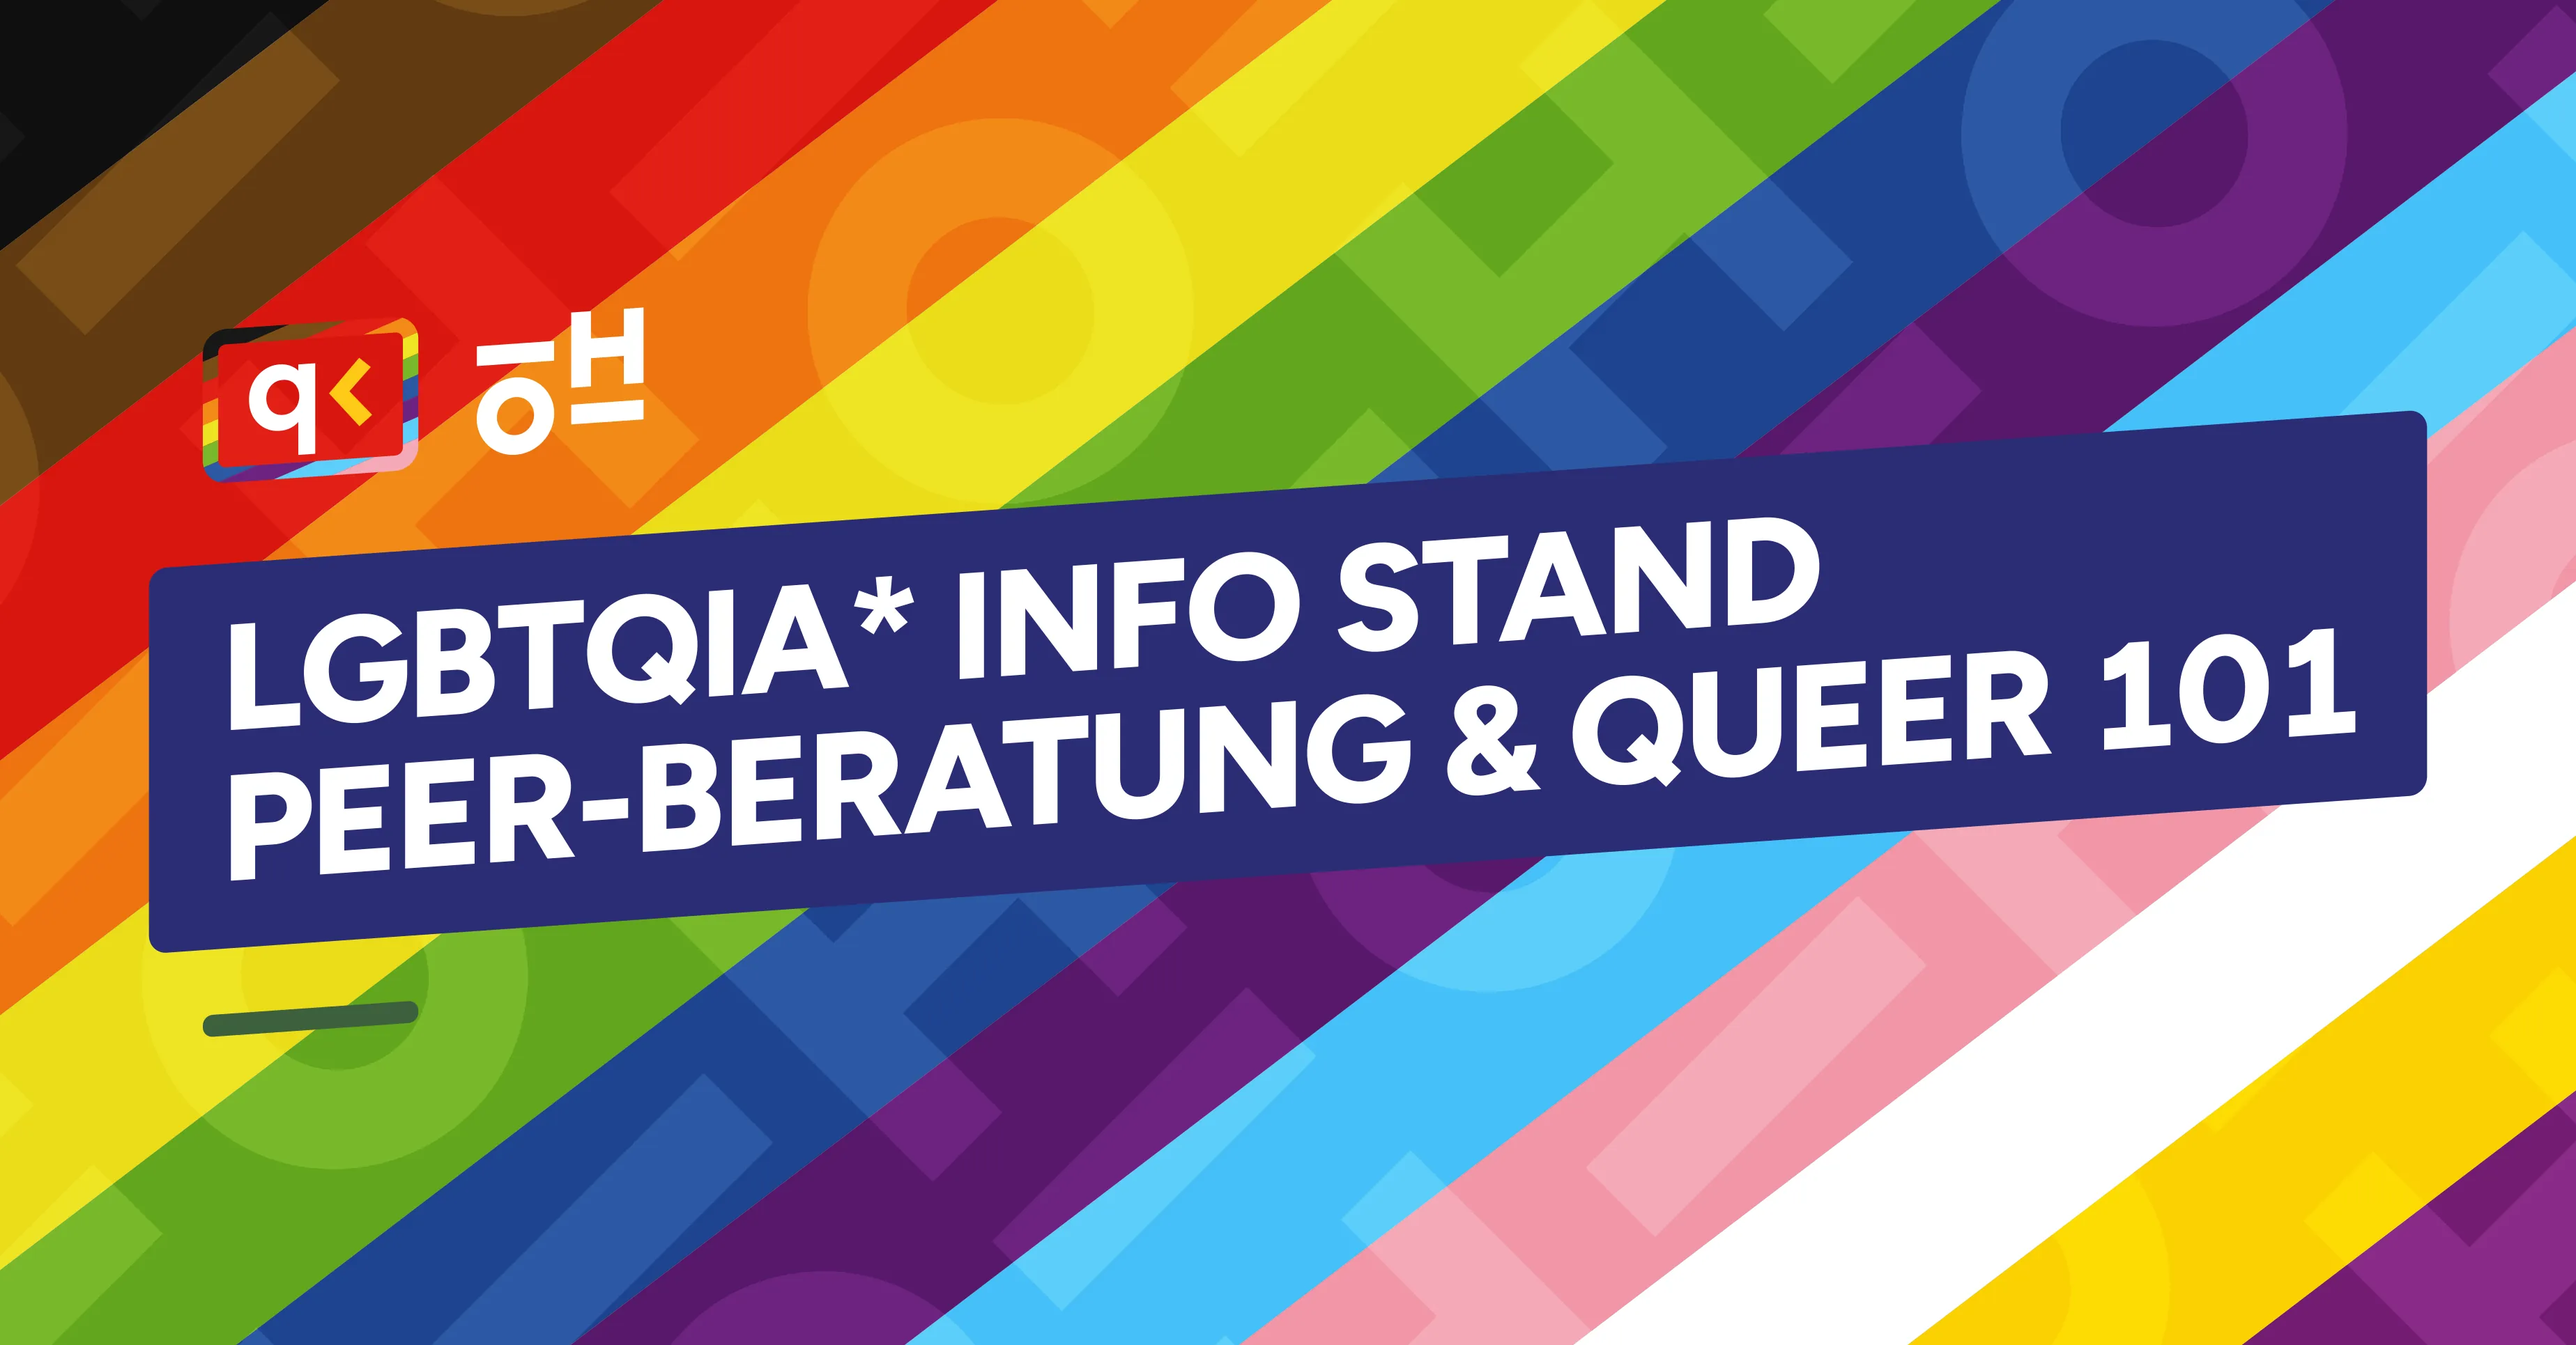
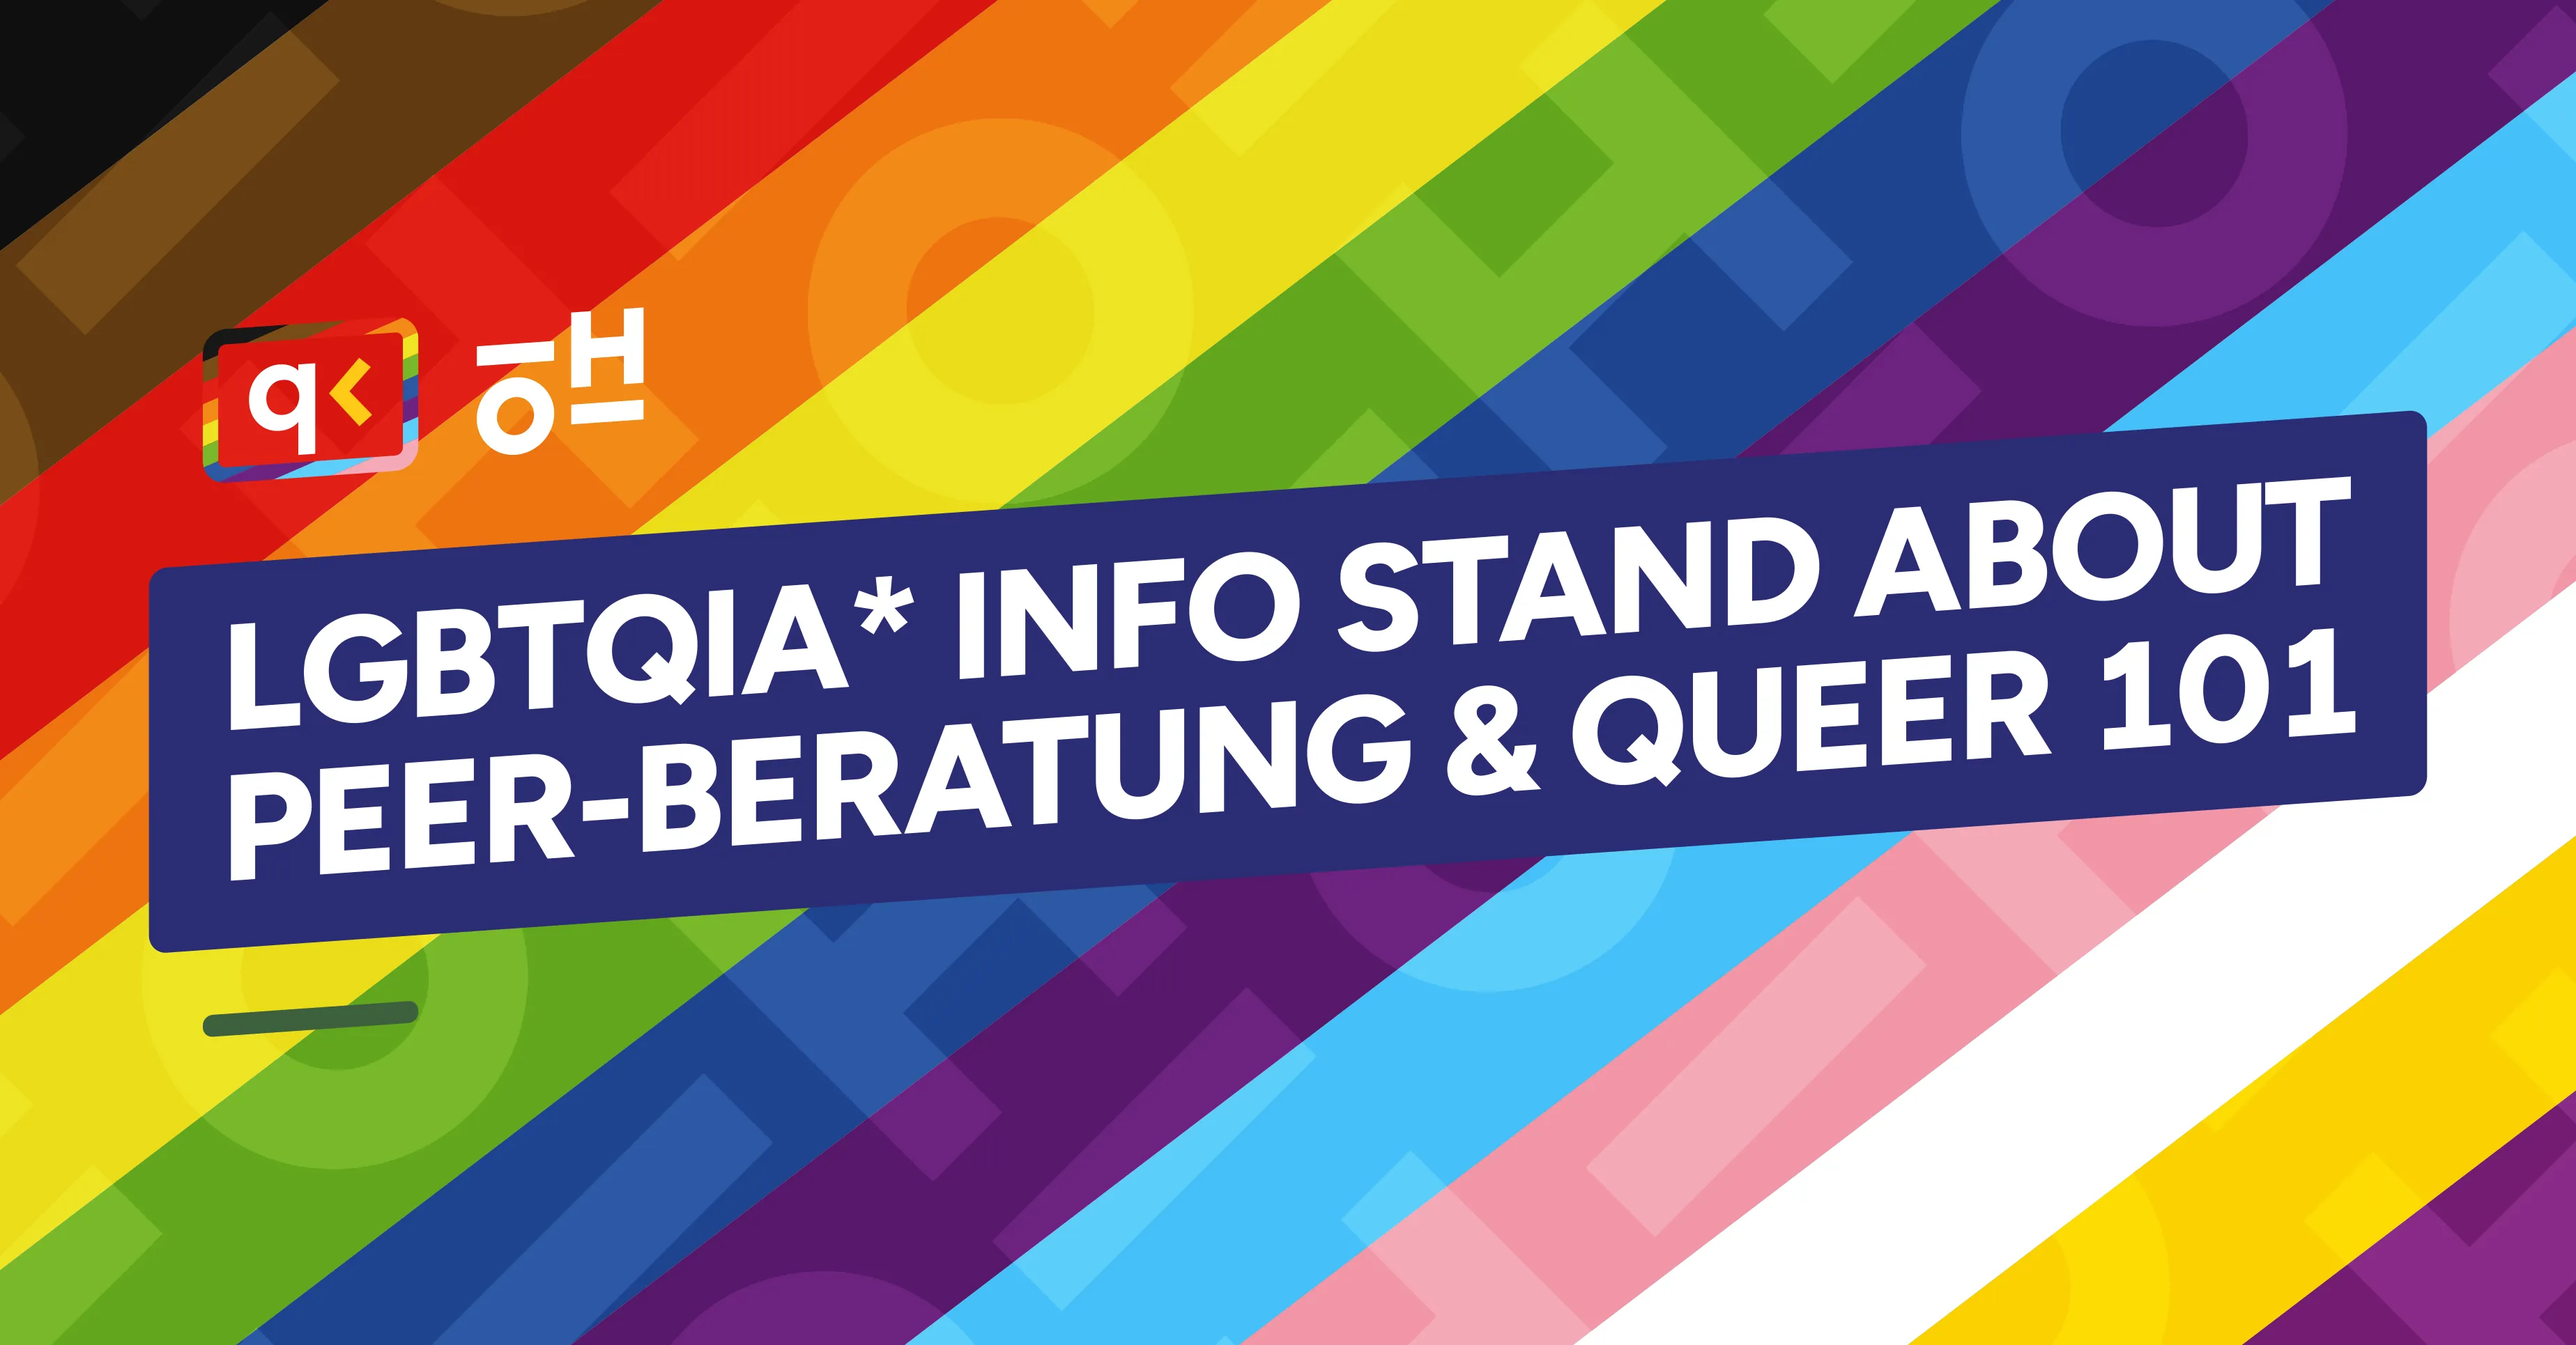
feat(content): update title

Changed region(s): [[0.7156, 0.3418, 0.9334, 0.4661]]

diff --git a/content/events/2025/june/lgbtqia-info-stand.md b/content/events/2025/june/lgbtqia-info-stand.md
@@ -1,9 +1,9 @@
 +++
 title = "LGBTQIA* Info Stand"
-description = "Peer Beratung & Queer 101"
+description = "Zu Peer Beratung & Queer 101"
 date = 2025-06-23T10:00:00
 
-aliases = ["/events/lgbtqia-info-event/"]
+aliases = ["/events/lgbtqia-info-stand/"]
 
 [extra]
 end_date = 2025-06-23T17:00:00
